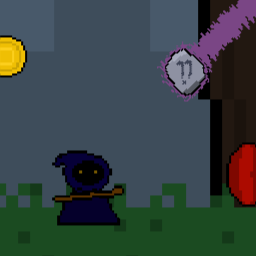
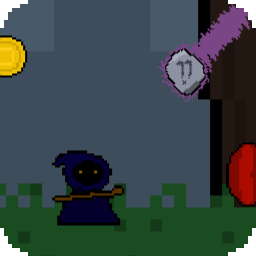
Game Over, Interface upgrade and Parallax BG remade

diff --git a/scripts/Player.cs b/scripts/Player.cs
@@ -12,18 +12,12 @@ public partial class Player : CharacterBody2D
 	private GameManager gameManager;
 	private GpuParticles2D projectileParticles;
 	private AnimatedSprite2D animatedSprite;
-	private ShaderMaterial bgShader;
-
 
 	public override void _Ready()
 	{
 		gameManager = GetNode<GameManager>("/root/GameManager");
 		projectileParticles = GetNode<GpuParticles2D>("Projectiles");
 		animatedSprite = GetNode<AnimatedSprite2D>("AnimatedSprite2D");
-
-		bgShader = (ShaderMaterial)GetNode<TextureRect>("../Background").Material;
-
-		bgShader.SetShaderParameter("speed", 0.25f);
 
 		isDead = false;
 		wasFlying = false;
@@ -43,6 +37,11 @@ public partial class Player : CharacterBody2D
 			}
 			Velocity = velocity;
 			MoveAndSlide();
+
+			if (Input.IsActionJustPressed("reset"))
+			{
+				GetTree().ChangeSceneToFile("res://scenes/menu.tscn");
+			}
 
 			return;
 		}
@@ -86,8 +85,6 @@ public partial class Player : CharacterBody2D
 		isDead = true;
 		animatedSprite.Play("dying");
 		projectileParticles.Emitting = false;
-
-		bgShader.SetShaderParameter("speed", 0.0f);
 
 		GD.Print("YOU DIED");
 	}

diff --git a/scripts/Unlocks.cs b/scripts/Unlocks.cs
@@ -9,6 +9,7 @@ public partial class Unlocks : Control
 
 	private CheckButton[] skinCheckButtons = new CheckButton[3];
 	private GameManager gameManager;
+	private Label coinsLabel;
 
 	private readonly string filePath = ProjectSettings.GlobalizePath("user://saves/");
 	private readonly string fileName = "save_data.json";
@@ -16,6 +17,7 @@ public partial class Unlocks : Control
 	public override void _Ready()
 	{
 		gameManager = GetNode<GameManager>("/root/GameManager");
+		coinsLabel = GetNode<Label>("CoinsLabel");
 
 		for (int i = 0; i < skinCheckButtons.Length; i++)
 		{
@@ -43,6 +45,11 @@ public partial class Unlocks : Control
 			if ((bool)gameManager.data[$"skin_{i + 2}"])
 				skinCheckButtons[i].Text = $"Skin {i + 2}";
 		}
+	}
+
+	public override void _Process(double delta)
+	{
+		coinsLabel.Text = $"{gameManager.Coins:D3}";
 	}
 
 	private void _OnBackPressed()

diff --git a/scripts/Interface.cs b/scripts/Interface.cs
@@ -1,0 +1,34 @@
+using Godot;
+using System;
+
+public partial class Interface : Control
+{
+	private Label gameOverLabel, scoreLabel, highScoreLabel, coinsLabel;
+	private GameManager gameManager;
+	private Player player;
+
+	public override void _Ready()
+	{
+		gameManager = GetNode<GameManager>("/root/GameManager");
+		player = GetNode<Player>("../Player");
+
+		gameOverLabel = GetNode<Label>("GameOver");
+		highScoreLabel = GetNode<Label>("HighScore");
+		coinsLabel = GetNode<Label>("CoinsLabel");
+		scoreLabel = GetNode<Label>("Score");
+
+		gameOverLabel.Visible = false;
+	}
+
+	public override void _Process(double delta)
+	{
+		scoreLabel.Text = $"{gameManager.CurrentScore:D4}M";
+		highScoreLabel.Text = $"Best: {gameManager.HighScore:D4}M";
+		coinsLabel.Text = $"{gameManager.Coins:D3}";
+
+		if (player.isDead)
+		{
+			gameOverLabel.Visible = true;
+		}
+	}
+}

diff --git a/scripts/Background.cs b/scripts/Background.cs
@@ -1,0 +1,22 @@
+using Godot;
+using System;
+
+public partial class Background : Parallax2D
+{
+	[Export] public float ScrollSpeed = -300.0f;
+
+	private Player player;
+
+	public override void _Ready()
+	{
+		player = GetNode<Player>("../Player");
+	}
+
+	public override void _Process(double delta)
+	{
+		if (!player.isDead)
+		{
+			ScrollOffset += new Vector2(ScrollSpeed * (float)delta, 0);
+		}
+	}
+}
